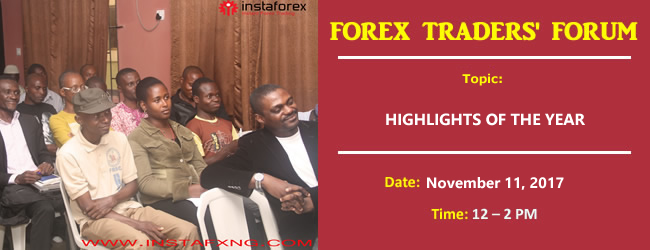
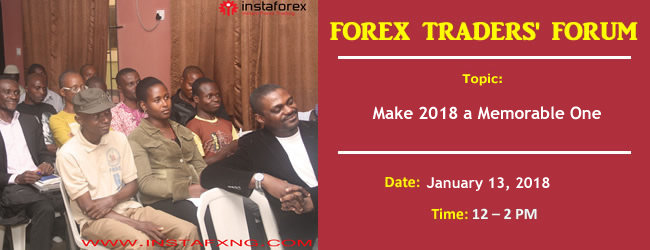
New modifications

Changed region(s): [[0.5538, 0.42, 0.9231, 0.504], [0.6462, 0.7, 0.8923, 0.756]]

diff --git a/public_html/traders_forum.php b/public_html/traders_forum.php
@@ -76,9 +76,8 @@ if ($_SERVER['REQUEST_METHOD'] == 'POST') {
 
             <p>Thank you for reserving a seat at the next Forex Traders Forum.</p>
 
-            <p>At the Forum this month, we will highlight the trading year 2017, the high and lows
-            you experienced in Forex trading, and together, we will discuss how to close more profitable
-            trades in the coming year .</p>
+            <p>At the Forum this month, we will discuss how to make 2018 a memorable one and how to close more profitable
+            trades in the new year .</p>
 
             <p>You will also have the opportunity of meeting other Forex traders and you
             could be one of two lucky winners to win $20 trading bonus. Isn’t that cool?</p>
@@ -86,7 +85,7 @@ if ($_SERVER['REQUEST_METHOD'] == 'POST') {
             <p>Please mark your calendar for this date; we will also remind you via sms.</p>
 
             <p>Your Venue: $chosen_venue<br /><br />
-            Date: 11th of November, 2017<br /><br />
+            Date: 13th of January, 2018<br /><br />
             Time: 12 - 2pm</p>
 
             <br /><br />
@@ -163,11 +162,10 @@ MAIL;
                     <div class="super-shadow page-top-section">
                         <div class="row">
                             <div class="col-sm-6">
-                                <h3 style="margin: 0;">Highlights of the Year 2017</h3>
+                                <h3 style="margin: 0;">Make 2018 a Memorable One</h3>
                                 <p style="margin-top: 0">
-                                    Join us on Saturday 11th of November, 2017 as you share with us,
-                                    the high and lows you experienced in Forex trading in year 2017 and we
-                                    together discuss how to close more profitable trades in the new year.
+                                    Join us on Saturday 13th of January, 2018 as discuss how to make 2018 a memorable one and
+                                    how to close more profitable trades in the new year.
                                         Time: 12 - 2pm.<br />
                                     <strong>Reserve your seat below to stand a chance to win $20.</strong>
                                 </p>
@@ -192,9 +190,8 @@ MAIL;
                                     success. They share their experiences, learn from other traders, meet new
                                     people and go home with lots of exciting prizes such bonus account and Instaforex
                                     branded materials. </p>
-                                <p>Join us on Saturday, 11th of November, 2017 for another exciting edition of
-                                    Nigerian Forex traders Forum as we examine the moments in the forex trading
-                                    year 2017.</p>
+                                <p>Join us on Saturday, 13th of January, 2018 for another exciting edition of
+                                    Nigerian Forex traders Forum as we examine how to make 2018 a memorable one.</p>
                             </div>
                         </div>
 

diff --git a/public_html/withdraw_funds.php b/public_html/withdraw_funds.php
@@ -164,7 +164,13 @@ if(isset($_POST['withdraw_funds_qty'])) {
 
             if($log_withdrawal) {
                 $client_operation->send_withdrawal_invoice($client_full_name, $client_email, $trans_id, $account_no, $ifx_dollar_amount, $ifx_naira_amount, $service_charge, $vat, $total_withdrawal_payable, $client_bank_name, $client_acct_name, $client_acct_no);
-                $message_success = "<p>Withdrawal Request Submitted - See the summary of your withdrawal below. Your Withdrawal will be processed and payment made within one business day. Thank you for choosing InstaForex.</p>
+                $message_success = "<p>Withdrawal Request Submitted - See the summary of your withdrawal below. Your Withdrawal will
+                                    be processed and payment made within one business day.</p>
+                                    <p>In a few cases some requests fall outside the category of withdrawals we can process from
+                                    our office and has to be sent to InstaForex office. Withdrawal requests in this category can take
+                                    up to 3 Business days.</p>
+                                    <p>If your withdrawal request falls within this category, we will inform you immediately.</p>
+                                    <p>Thank you for choosing InstaForex.</p>
                                     <p class='text-danger' style='font-size: 1.3em'><strong>NOTE: </strong>Your payment will be made based on the rate as at the time the fund
                                     is debited from your Instaforex account.</p>";
                 $page_requested = 'withdraw_funds_finalize_php';

diff --git a/app_assets/functions_status_messages.php b/app_assets/functions_status_messages.php
@@ -374,7 +374,7 @@ function client_group_query($client_group) {
         case '29': $query = "SELECT u.user_code, u.first_name, u.email, u.phone FROM point_ranking_log AS prl INNER JOIN user AS u ON prl.user_code = u.user_code WHERE prl.position IN ('1', '2', '3', '4', '5') AND prl.start_date BETWEEN '2016-12-01' AND '2017-10-01' GROUP BY user_code"; break;
         case '30': $query = "SELECT u.user_code, u.first_name, u.email, u.phone FROM trading_commission AS td INNER JOIN user_ifxaccount AS ui ON td.ifx_acct_no = ui.ifx_acct_no INNER JOIN user AS u ON ui.user_code = u.user_code WHERE (td.date_earned BETWEEN '2016-12-01' AND '2017-11-30') AND u.user_code NOT IN (SELECT prl.user_code FROM point_ranking_log AS prl WHERE prl.position IN ('1', '2', '3', '4', '5') AND prl.start_date BETWEEN '2016-12-01' AND '2017-10-01' GROUP BY user_code) GROUP BY u.email"; break;
         case '31': $query = "SELECT u.user_code, u.first_name, u.email, u.phone FROM user_edu_exercise_log AS ueel INNER JOIN user AS u ON ueel.user_code = u.user_code LEFT JOIN user_edu_fee_payment AS uefp ON ueel.user_code = uefp.user_code WHERE ueel.lesson_id = 5 AND uefp.user_code IS NULL GROUP BY ueel.user_code"; break;
-        case '32': $query = "SELECT full_name AS first_name, email, phone FROM dinner_2017 WHERE attended = '1' ORDER BY created ASC"; break;
+        case '32': $query = "SELECT full_name AS first_name, email, phone FROM dinner_2017 WHERE attended = '1'"; break;
         default: $query = false; break;
     }
     return $query;

diff --git a/app_assets/class_client_operation.php b/app_assets/class_client_operation.php
@@ -1137,6 +1137,12 @@ MAIL;
             <p>Withdrawal Request Was Successfully Submitted - See the summary of your withdrawal below.
             Your Withdrawal will be processed and payment made within one business day.</p>
 
+            <p>In a few cases some requests fall outside the category of withdrawals we can process from
+            our office and has to be sent to InstaForex office. Withdrawal requests in this category can take
+            up to 3 Business days.</p>
+
+            <p>If your withdrawal request falls within this category, we will inform you immediately.</p>
+
             <p style="font-size: 1.3em; color: #AE0000;"><strong>NOTE: </strong>Your
             payment will be made based on the rate as at the time the fund is debited from your
             Instaforex account.</p>
